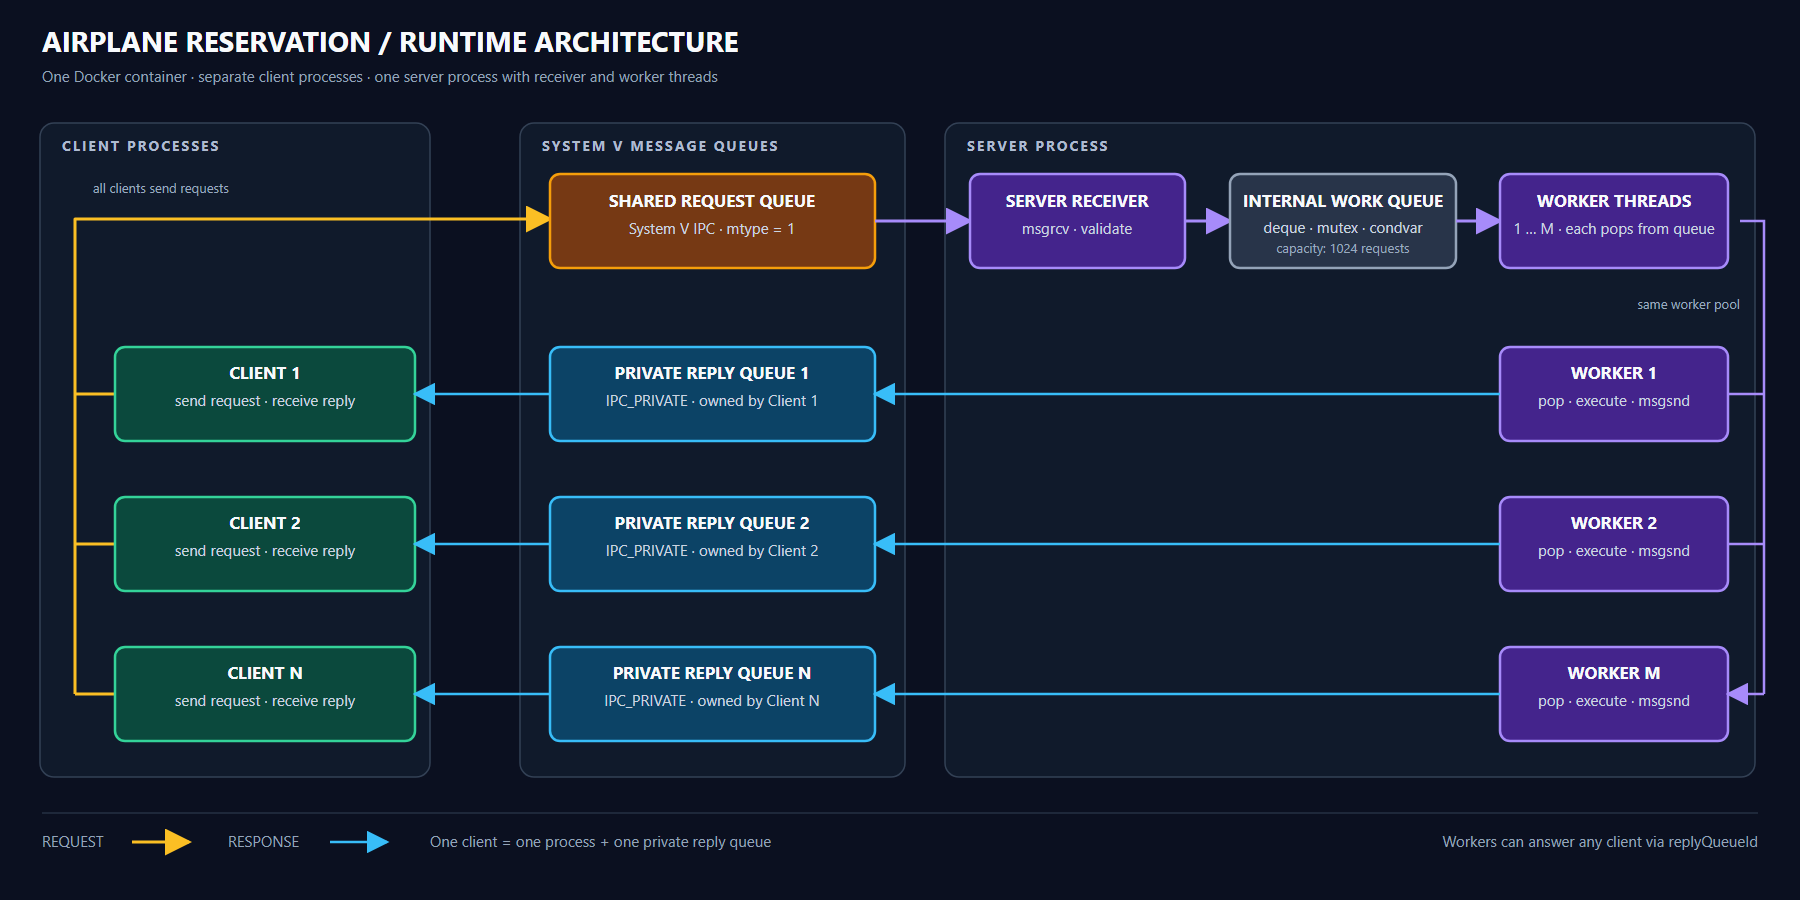
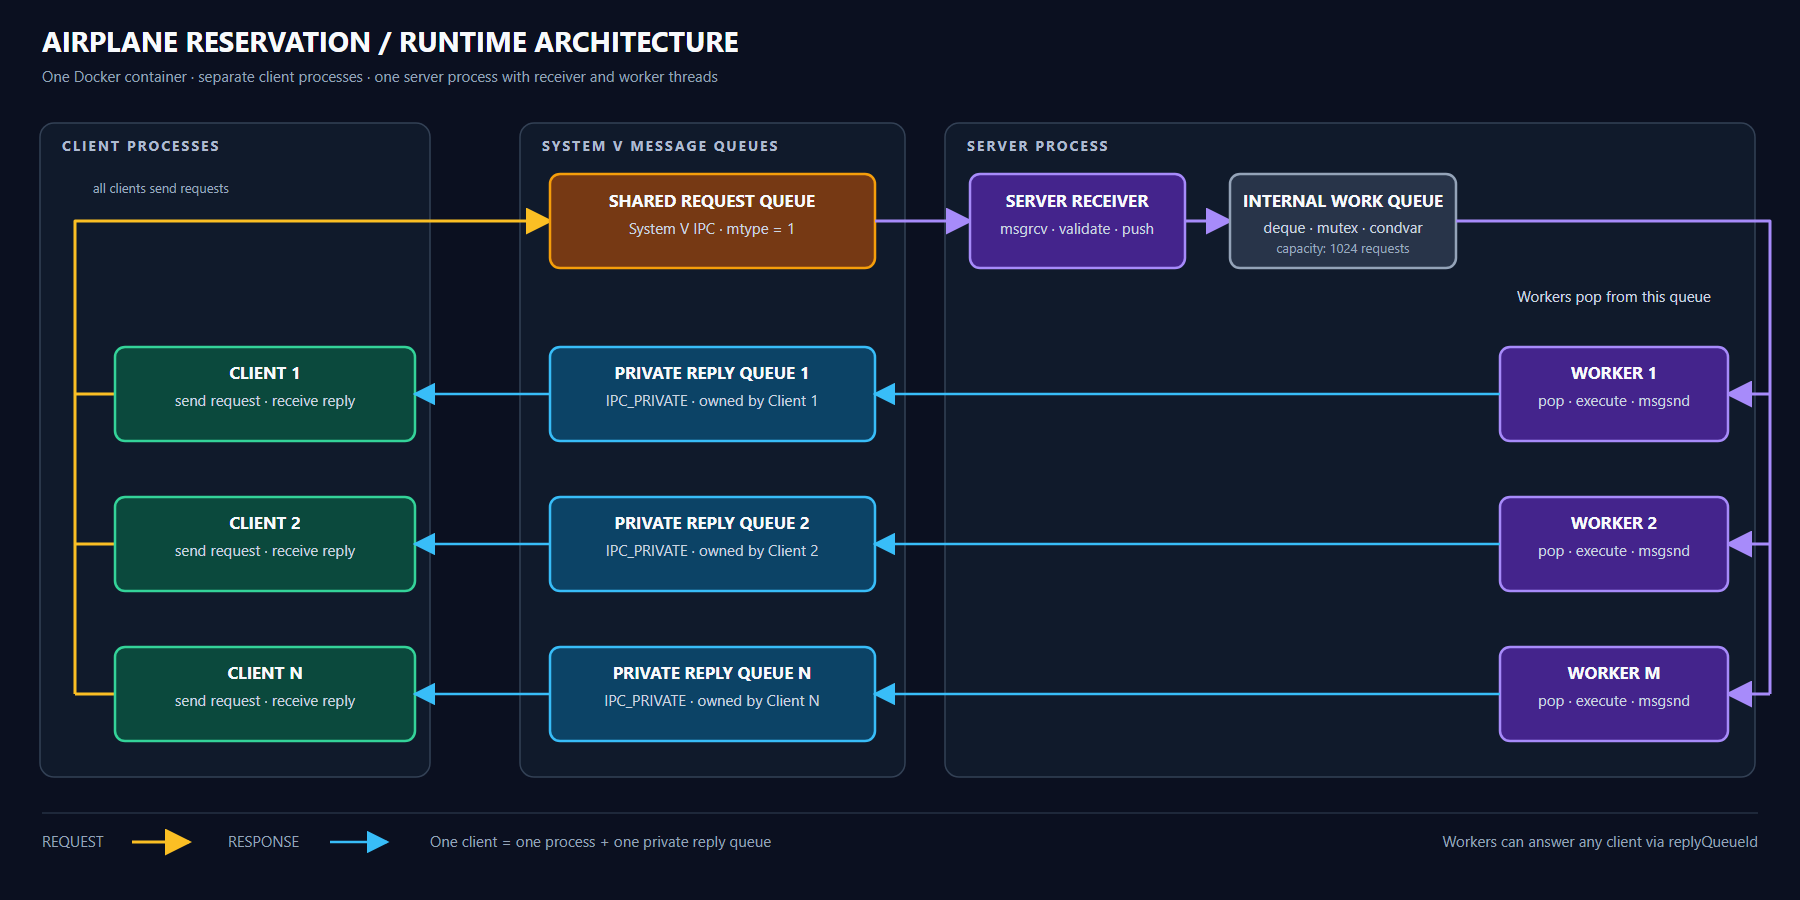
docs(architecture): update architecture description for clarity and accuracy

Changed region(s): [[0.8089, 0.1867, 0.9956, 0.7778], [0.0311, 0.2178, 0.3111, 0.2489], [0.56, 0.2489, 0.6533, 0.28]]

diff --git a/docs/architecture.md b/docs/architecture.md
@@ -10,7 +10,7 @@
 
 Client แต่ละกล่องทางซ้ายเป็น process เดียวที่ทั้งส่งคำขอและรอคำตอบ เส้นสีส้มรวมคำขอจาก Client ทุกตัวเข้า shared request queue; แนวเส้นที่รวมกันเป็นเพียงทางเดินในภาพ ไม่ใช่คิวหรือ process เพิ่ม ส่วนเส้นสีฟ้าแสดง Worker ส่ง response ตรงเข้าคิวส่วนตัวของ Client เจ้าของ request แล้ว Client รับจากคิวของตน
 
-Worker 1, 2 และ M คือ threads ใน server process เดียวกัน (`M` = จำนวน worker ที่ตั้งค่า; โหมด sequential มีเฉพาะ Worker 1) กล่อง **WORKER THREADS** ด้านบนเป็นแค่หัวกลุ่ม ไม่ใช่ thread หรือ dispatcher เพิ่มเติม ทุกตัวหยิบงานจาก internal work queue ประมวลผลกับ `seats[20]` ชุดเดียวกัน และส่ง `ResponseMessage` **เองโดยตรง** ไปยัง `replyQueueId` ของ request นั้น
+Worker 1, 2 และ M คือ threads ใน server process เดียวกัน (`M` = จำนวน worker ที่ตั้งค่า; โหมด sequential มีเฉพาะ Worker 1) เส้นสีม่วงจาก internal work queue เชื่อมไปยัง worker ทุกตัว เพราะแต่ละตัวดึงงานจากคิวเดียวกันเอง ไม่มี worker ตัวกลางหรือ dispatcher เพิ่มเติม ทุกตัวประมวลผลกับ `seats[20]` ชุดเดียวกัน และส่ง `ResponseMessage` **เองโดยตรง** ไปยัง `replyQueueId` ของ request นั้น
 
 เส้น Worker 1 → Queue 1, Worker 2 → Queue 2 และ Worker M → Queue N เป็นเพียง **ตัวอย่างของสาม request** เพื่อให้ภาพอ่านง่าย ไม่ใช่การจับคู่ถาวร Worker ตัวใดก็ส่งไปยัง private queue ของ client ตัวใดได้ตาม `replyQueueId`; หนึ่ง response ส่งเข้าคิวเดียว ไม่ได้กระจายไปทุกคิว
 
